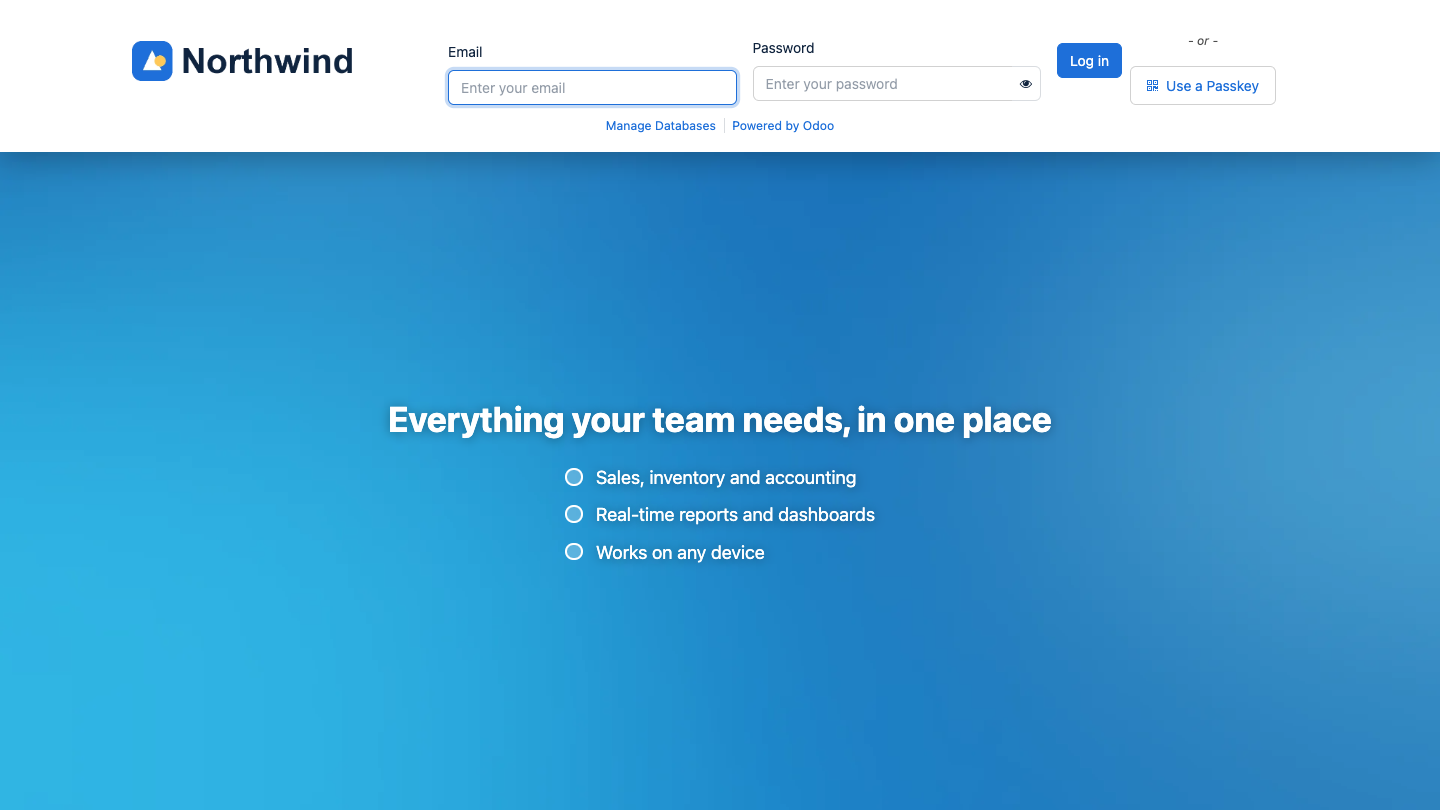
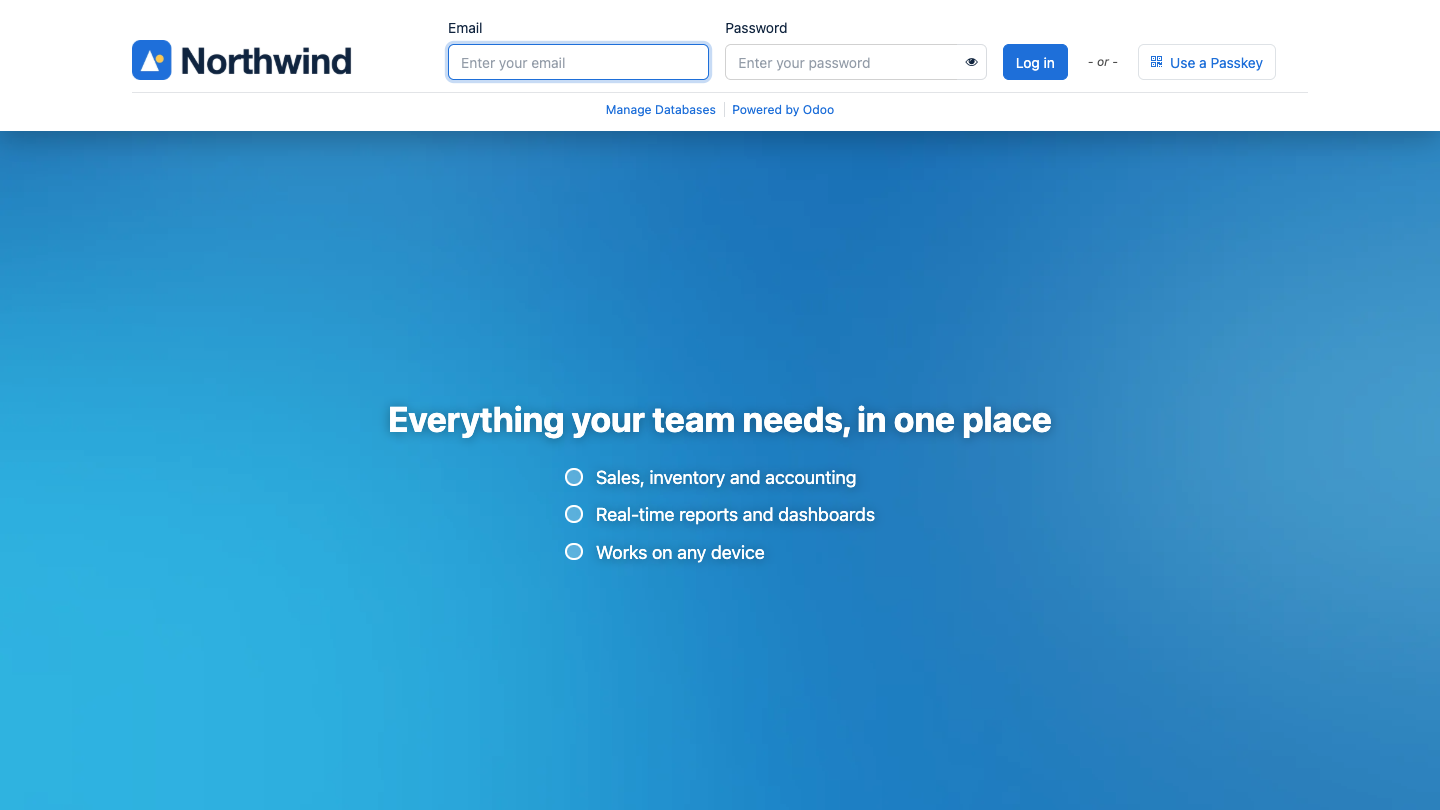
dwo_login_themes 1.0.2: top bar layout in one aligned row (fields, buttons and OAuth/passkey on the same line), listing image shot again (#96)
Claude-Session: https://claude.ai/code/session_01BunMqrivxZFpJGoan2ckxC

Changed region(s): [[0.0, 0.0309, 1.0, 0.1852], [0.6562, 0.0309, 0.875, 0.1235], [0.0938, 0.0617, 0.25, 0.0926]]

diff --git a/dwo_login_themes/static/src/scss/login_theme.scss b/dwo_login_themes/static/src/scss/login_theme.scss
@@ -141,21 +141,45 @@ body:has(.dwo_lc) { background: var(--dwo-page-bg, #e9ecef) !important; margin: 
     .o_database_list a { color: #c9c2ff; }
     .o_database_list .text-muted, .o_database_list em, .o_database_list i:not(.fa) { color: #aeb4c8 !important; }
 }
-// 11. Top bar: the form in a horizontal bar, the image below. The form keeps its own display rules (d-none).
-@include dwo_layout(topbar) { align-items: flex-start; padding: 0 !important;
+// 11. Top bar: the form in one horizontal row (logo | email | password | Log in | other sign-in buttons), the image below.
+// The form keeps its own display rules (d-none). Every control has the same height and the row is aligned on the bottom of
+// the controls, so the fields and the buttons share one baseline whatever sits above them (labels, "Reset Password").
+@include dwo_layout(topbar) { align-items: flex-start; padding: 0 !important; --dwo-ctl-h: 36px;
     .o_database_list { max-width: none !important; border-radius: 0; box-shadow: 0 8px 30px rgba(0, 0, 0, .25);
-        .card-body { display: flex; flex-wrap: wrap; align-items: center; gap: .75rem 2rem; max-width: 1240px; margin: 0 auto; padding: 1rem 2rem; }
-        .card-body > div:first-child { flex: 0 0 auto; max-width: 220px; margin: 0 !important; padding: 0 !important; border: 0 !important;
+        .card-body { display: flex; flex-wrap: wrap; align-items: center; gap: .5rem 2rem; max-width: 1240px; margin: 0 auto; padding: 1rem 2rem .75rem; }
+        .card-body > div:first-child { flex: 0 0 auto; max-width: 220px; margin: 1.5rem 0 0 !important; padding: 0 !important; border: 0 !important;
             img[alt="Logo"] { max-height: 44px !important; max-width: 220px; } }
         .card-body > .dwo_welcome, .card-body > .dwo_notice { flex: 0 0 100%; margin: 0; }
+        // The form is ONE flat row: the groups of the buttons (display: contents) dissolve, so Log in, the links, "- or -",
+        // the OAuth buttons and the passkey button are items of the same row as the fields (Odoo 17 to 20 differ in the markup).
         .card-body > .oe_login_form:not(.d-none), .card-body > form:not(.d-none) { display: flex; flex-wrap: wrap; align-items: flex-end; gap: .75rem 1rem; flex: 1 1 560px; margin: 0;
-            > .mb-3, > div { flex: 1 1 200px; margin: 0 !important; }
-            > .alert, > p { flex: 0 0 100%; margin: 0; }
-            > .oe_login_buttons { flex: 0 0 auto; padding: 0 !important; display: flex !important; flex-wrap: wrap; align-items: center; gap: .5rem; margin: 0 !important;
-                > .btn, > a, > div { width: auto; margin: 0; } }
-            > input[type="hidden"] { display: none; } }
-        .card-body > .text-center.small { flex: 0 0 100%; margin: 0 !important; padding: 0 !important; border: 0 !important; } }
+            > .mb-3, > .o_caps_lock_warning { flex: 1 1 200px; margin: 0 !important; min-width: 0; }
+            > .alert { flex: 0 0 100%; margin: 0; }
+            // Odoo 18: a second "- or -" before the passkey button; the one of the OAuth block is enough on the row
+            > em { display: none !important; }
+            > input[type="hidden"] { display: none; }
+            // the label rows (Email, Password + Reset Password) get the same height, the fields no extra margin
+            label.form-label { display: flex; align-items: center; justify-content: space-between; min-height: 24px; margin: 0 0 .25rem; line-height: 1.2; .btn { padding: 0; line-height: 1.2; } }
+            .o_caps_lock_warning { position: relative; > .d-flex { align-items: center !important; min-height: 24px; margin: 0 0 .25rem; label.form-label { margin: 0; min-height: 0; } .btn { padding: 0; line-height: 1.2; } }
+                .o_caps_lock_warning_text { position: absolute; left: 0; top: 100%; white-space: nowrap; font-size: .75rem; } }
+            .input-group { margin: 0 !important; flex-wrap: nowrap; }
+            .form-control, .input-group > .btn { height: var(--dwo-ctl-h); }
+            // items of the row after the fields: same height, same bottom edge
+            .oe_login_buttons, .o_login_auth, .o_login_auth > .list-group { display: contents !important; }
+            .oe_login_buttons > .btn, .oe_login_buttons > a, .oe_login_buttons > .d-flex, > div.text-center:not(.mb-3):not(.oe_login_buttons), > p:not(.alert), .o_login_auth > em, .o_login_auth .list-group-item {
+                flex: 0 0 auto; width: auto; height: var(--dwo-ctl-h); margin: 0 !important; display: inline-flex !important; align-items: center; justify-content: center; white-space: nowrap; padding-top: 0; padding-bottom: 0; }
+            .oe_login_buttons > .btn-link, > p > .btn-link { padding-left: .25rem; padding-right: .25rem; }
+            .oe_login_buttons > .d-flex { gap: .75rem; }
+            .o_login_auth > em { line-height: var(--dwo-ctl-h); padding: 0 .25rem; }
+            .list-group-item, button.passkey_login_link { padding: 0 .75rem !important; border: 1px solid var(--bs-border-color, #dee2e6) !important; border-radius: var(--bs-border-radius, .375rem) !important; > span { margin: 0 !important; } }
+            button.passkey_login_link { height: var(--dwo-ctl-h); background: transparent; } }
+        // the footer links: one centred row under the whole bar
+        .card-body > .text-center.small { flex: 0 0 100%; margin: .25rem 0 0 !important; padding: .5rem 0 0 !important; border: 0 !important;
+            border-top: 1px solid color-mix(in srgb, var(--dwo-text) 12%, transparent) !important; text-align: center; } }
     @include dwo_aside_on; .dwo_aside { left: 0; right: 0; top: 160px; align-items: center; text-align: center; .dwo_aside_list { text-align: left; } } }
+@media (max-width: 1099.98px) and (min-width: 768px) {
+    .container.dwo_lc.dwo_l_topbar .dwo_aside { top: 340px; }
+}
 // 12. Bottom-right corner (SaaS style)
 @include dwo_layout(corner) { justify-content: flex-end; align-items: flex-end; padding: 32px !important;
     .o_database_list { max-width: 390px !important; }
@@ -191,5 +215,18 @@ body:has(.dwo_l_material) { background: color-mix(in srgb, var(--dwo-primary, #7
     }
     .container.dwo_lc.dwo_l_topbar .o_database_list .card-body > .oe_login_form:not(.d-none) { display: block; > .mb-3, > div { margin-bottom: 1rem !important; } }
     .container.dwo_lc.dwo_l_topbar .o_database_list { border-radius: var(--dwo-radius); }
+    .container.dwo_lc.dwo_l_topbar .o_database_list .card-body > div:first-child { margin: 0 0 1rem !important; }
+    .container.dwo_lc.dwo_l_topbar .o_database_list .card-body > .text-center.small { margin: 1.5rem 0 0 !important; padding-top: 1rem !important; }
+    .container.dwo_lc.dwo_l_topbar .o_database_list .card-body > .oe_login_form:not(.d-none) {
+        .form-control, .input-group > .btn { height: auto; }
+        .oe_login_buttons { display: grid !important; gap: 0; }
+        .o_login_auth { display: block !important; > .list-group { display: flex !important; flex-direction: column; } }
+        .oe_login_buttons > .btn, .oe_login_buttons > a, .oe_login_buttons > .d-flex, > div.text-center:not(.mb-3):not(.oe_login_buttons), > p:not(.alert), .o_login_auth > em, .o_login_auth .list-group-item, button.passkey_login_link {
+            height: auto; width: 100%; padding-top: .375rem; padding-bottom: .375rem; white-space: normal; }
+        > em { display: block !important; margin: 1rem 0 !important; padding: 0; text-align: center; }
+        .o_login_auth > em { display: block !important; margin: 1rem 0 !important; padding: 0; line-height: inherit; }
+        .o_login_auth .list-group-item { margin-top: .5rem !important; justify-content: flex-start; padding: .5rem .75rem !important; }
+        > div.text-center:not(.mb-3):not(.oe_login_buttons), > p:not(.alert) { display: flex !important; }
+        button.passkey_login_link { border: 0 !important; } }
     body:has(.dwo_l_material) { background: var(--dwo-page-bg) !important; }
 }

diff --git a/dwo_login_themes/static/tests/tours/login_tour.js b/dwo_login_themes/static/tests/tours/login_tour.js
@@ -7,6 +7,15 @@ registry.category("web_tour.tours").add("dwo_login_themes_tour", {
     steps: () => [
         { content: "The themed page is shown", trigger: ".container.dwo_lc .dwo_bg" },
         { content: "The form is visible", trigger: ".dwo_lc form.oe_login_form input[name=login]" },
+        { content: "Top bar: the fields and the Log in button end on the same line", trigger: ".dwo_lc form.oe_login_form input[name=login]", run: () => {
+            // only the top bar, and only when the window is wide enough for one row
+            if (!document.querySelector(".container.dwo_l_topbar") || window.innerWidth < 1100) { return; }
+            const bottom = (sel) => document.querySelector(sel).getBoundingClientRect().bottom;
+            const mail = bottom("input[name=login]");
+            const button = document.querySelector(".oe_login_buttons button[type=submit]").getBoundingClientRect();
+            if (Math.abs(mail - bottom("input[name=password]")) > 1) { throw new Error("Top bar: Email and Password are not aligned"); }
+            if (button.top < mail && Math.abs(mail - button.bottom) > 1) { throw new Error("Top bar: the Log in button is not aligned with the fields"); }
+        } },
         { content: "Type the login", trigger: "input[name=login]", run: "text admin" },
         { content: "Type the password", trigger: "input[name=password]", run: "text admin" },
         { content: "Log in", trigger: ".oe_login_buttons button[type=submit]", run: "click" },

diff --git a/dwo_login_themes/__manifest__.py b/dwo_login_themes/__manifest__.py
@@ -2,7 +2,7 @@
 # Copyright 2026 DuoTEK. Licensed under the Odoo Proprietary License v1.0 (OPL-1).
 {
     "name": "Login Page Themes",
-    "version": "17.0.1.0.1",
+    "version": "17.0.1.0.2",
     "summary": "Change only the look of the Odoo login page: 14 layouts, colours, backgrounds, logo and a fixed announcement. Keywords: login page, custom login, login background, login layout, login theme, login screen, login page design, login announcement, login notice, login message, login logo, custom login page, login page customization, login page background, login page layout, login page theme, login background image, login page template, login form design, login page style, change login page, customize login page, login branding, login page logo, login screen background, login screen design, sign in page, sign in page design, login page announcement, login page notice, maintenance notice login, login page colors, login gradient, login slideshow, random login background, glass login page, dark login page, split login page, show hide password, password toggle, login page title, login favicon, login welcome message, login page footer, hide powered by odoo, remove powered by odoo, login debrand.",
     "description": "Changes only the appearance of the standard login page: the form, the buttons and every other sign-in "
                    "option of Odoo (password reset, sign up, OAuth, two-factor, database selector) stay as they are. "

diff --git a/dwo_login_themes/docs/CHANGELOG.md b/dwo_login_themes/docs/CHANGELOG.md
@@ -1,5 +1,19 @@
 # Changelog - dwo_login_themes
 
+## 2026-11-18 - 1.0.2 (Odoo 17, 18, 19, 20)
+
+Issue #96.
+
+- **Fix: the "Top bar" layout is now one clean horizontal row.** Logo, Email, Password, Log in and the other sign-in
+  buttons (OAuth providers, passkey) share the same height and the same bottom edge. Before, the Password field sat
+  about 4px higher than Email (Odoo's `mb-1` on the password group), the labels were at different heights, the button
+  and the "- or -" block floated at their own height. The groups of buttons now dissolve into the row
+  (`display: contents`), the labels get one height, and the signup / reset links follow the buttons. When the row is too
+  narrow it wraps by items; the footer links ("Manage Databases", "Powered by Odoo") are one centred row under the whole
+  bar; below 768px the existing card layout is used. Works with the markup of Odoo 17 to 20.
+- Tour: the top bar check that the fields and the Log in button end on the same line.
+- Listing image 06-topbar.png shot again.
+
 ## 2026-11-18 - 1.0.1 (Odoo 17, 18, 19, 20)
 
 Issue #96.
